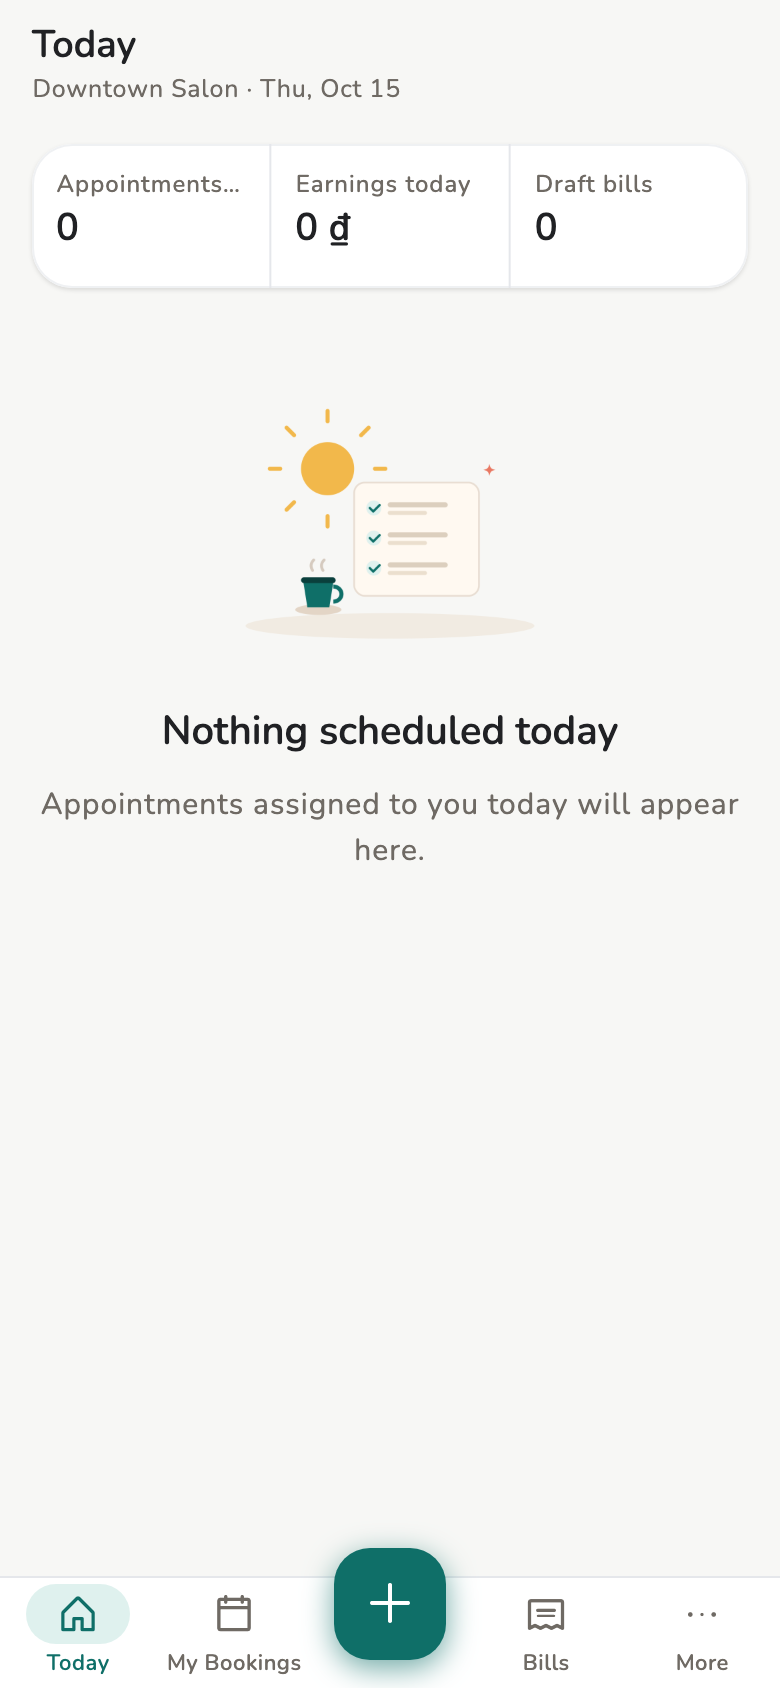
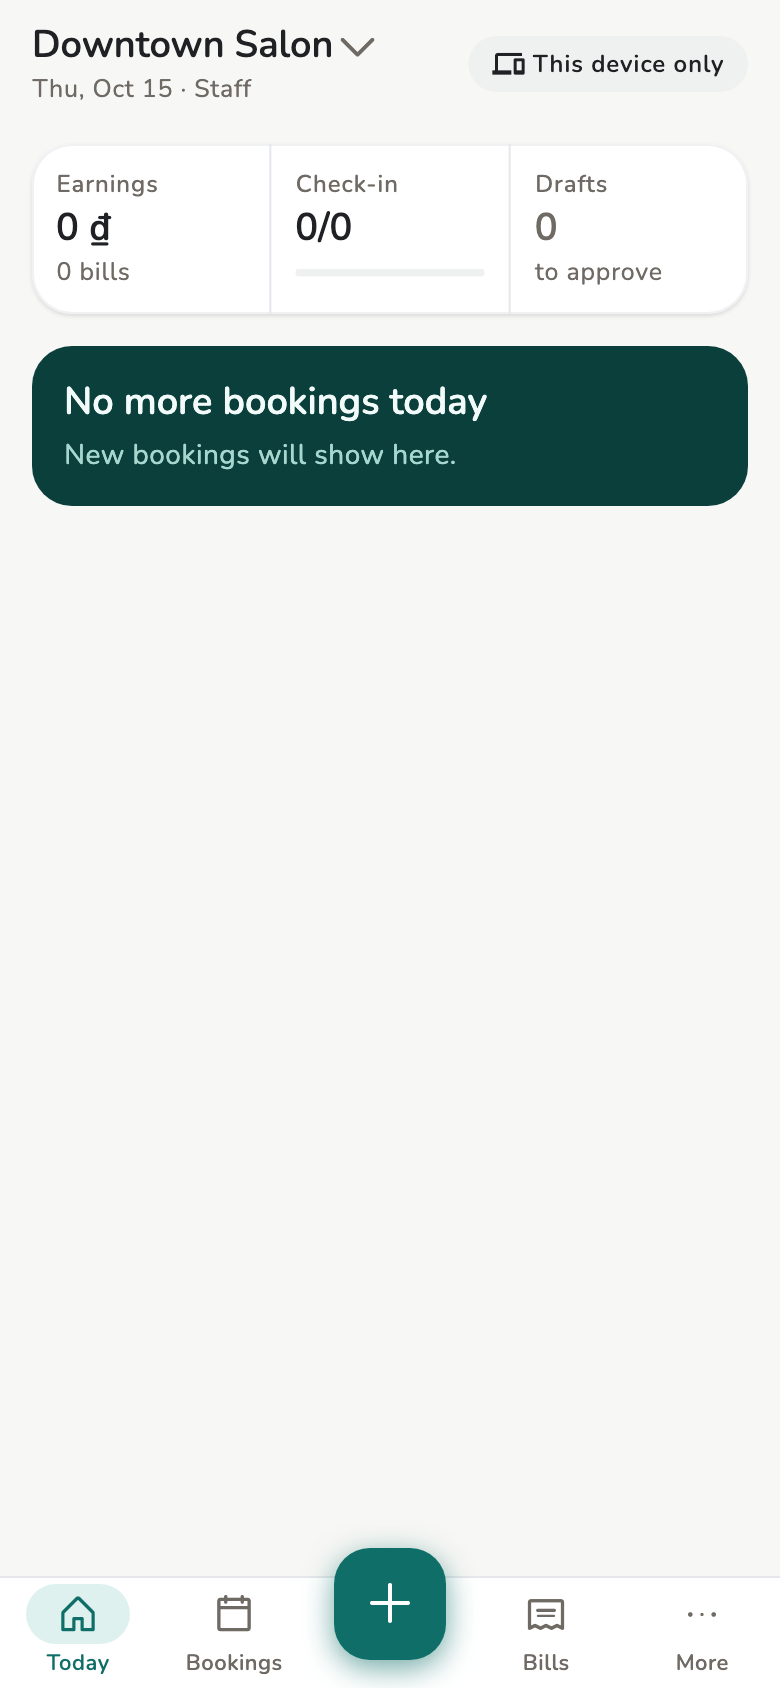
Sync handbook from salony-app@bfe49662

diff --git a/docs/reference/roles.vi.md b/docs/reference/roles.vi.md
@@ -21,9 +21,9 @@ Nhãn trong app: **Chủ tiệm**, **Quản lý**, **Nhân viên**.
 
 </div>
 
-Thanh dưới đổi theo vai trò: Chủ tiệm và Quản lý có **Hôm nay**, **Lịch
-hẹn**, **+**, **Hóa đơn** và **Thêm**; Nhân viên chỉ có **Lịch của tôi** và
-**Hóa đơn của tôi**.
+Mọi vai trò có cùng thanh dưới: **Hôm nay**, **Lịch hẹn**, **+**, **Hóa
+đơn** và **Thêm**. Với Nhân viên, các tab chỉ hiện việc của chính họ (thu
+nhập thay cho doanh thu tiệm), và **+** mở thẳng hóa đơn mới.
 
 Nhân viên thấy giao diện điện thoại này trên mọi máy. Trên máy tính bảng hay
 máy tính, app nằm trong một cột rộng bằng điện thoại ở giữa màn hình; Chủ

diff --git a/docs/guide/appointments.en.md b/docs/guide/appointments.en.md
@@ -5,7 +5,7 @@ appointments.
 
 ## Overview
 
-**Bookings** / **My Bookings**. **Staff cannot create appointments.**
+**Bookings**, the same tab for every role. **Staff cannot create appointments.**
 
 A strip of days runs across the top; swipe it to move a week, or tap the
 calendar icon to jump. **By staff** shows one column per staff member, plus
@@ -53,7 +53,7 @@ staff). The time must match [availability](schedule.md).
 
 === "Staff"
 
-    **My Bookings**: appointments assigned to them, or the whole store if
+    **Bookings**: appointments assigned to them, or the whole store if
     **Staff bookings** is **Whole store**. They do **not** get **New
     appointment**. They start **New invoice** from **+**.
 

diff --git a/docs/reference/roles.en.md b/docs/reference/roles.en.md
@@ -21,9 +21,10 @@ In-app labels: **Owner**, **Manager**, **Staff**.
 
 </div>
 
-The bottom bar changes with the role: an Owner or Manager gets **Today**,
-**Bookings**, **+**, **Bills**, and **More**; a Staff device gets only **My
-schedule** and **My invoices**.
+Every role gets the same bottom bar: **Today**, **Bookings**, **+**,
+**Bills**, and **More**. On a Staff device the tabs show only that person's
+work (their earnings instead of the store's revenue), and **+** opens a new
+bill directly.
 
 Staff see this phone layout on every device. On a tablet or computer it sits
 in a phone-width column in the middle of the screen; an Owner or Manager on

diff --git a/docs/guide/invoices.vi.md b/docs/guide/invoices.vi.md
@@ -4,7 +4,7 @@ Lập nháp, duyệt, in biên lai. Nhân viên tạo nháp; Chủ / Quản lý 
 
 ## Tổng quan
 
-Màn **Hóa đơn** (Chủ / Quản lý) hoặc **Hóa đơn của tôi** (Nhân viên). Khi
+Màn **Hóa đơn**; Nhân viên chỉ thấy hóa đơn của mình. Khi
 duyệt, giá, thuế, phí thêm, hoa hồng **khóa lại**, nên đổi giá sau không đụng
 hóa đơn cũ.
 

diff --git a/docs/start/first-day.vi.md b/docs/start/first-day.vi.md
@@ -18,7 +18,7 @@ Tour chạy lần đầu khi vào tiệm. Bỏ qua không làm thay đổi dữ 
 
 === "Nhân viên"
 
-    Tour gắn nhãn **Lịch của tôi**, **Hóa đơn của tôi**. Bước Tạo của họ là
+    Tour gắn nhãn **Lịch hẹn**, **Hóa đơn**. Bước Tạo của họ là
     **Tạo hóa đơn mới**, không phải đặt lịch.
 
 <div class="shot-row" markdown>

diff --git a/docs/guide/invoices.en.md b/docs/guide/invoices.en.md
@@ -4,7 +4,7 @@ Draft, approve, print. Staff create drafts; Owner / Manager approve.
 
 ## Overview
 
-**Bills** / **My Bills**. On approve, price, tax, extra fees, and commission
+**Bills**; Staff see only their own. On approve, price, tax, extra fees, and commission
 **freeze**.
 
 The top card shows what was approved today and how it splits by payment

diff --git a/docs/start/first-day.en.md b/docs/start/first-day.en.md
@@ -19,7 +19,7 @@ data. Replay: **Settings → Replay guided tour**.
 
 === "Staff"
 
-    The tour labels **My Bookings**, **My Bills**. Their Add step is
+    The tour labels **Bookings**, **Bills**. Their Add step is
     **Start a new bill** — not a booking.
 
 <div class="shot-row" markdown>
